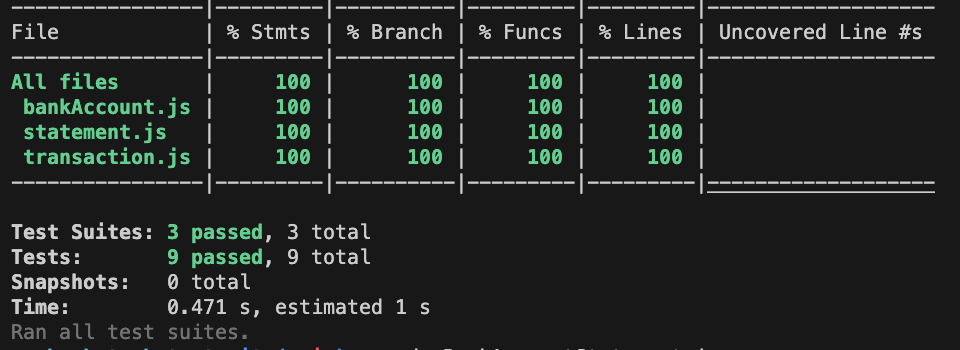
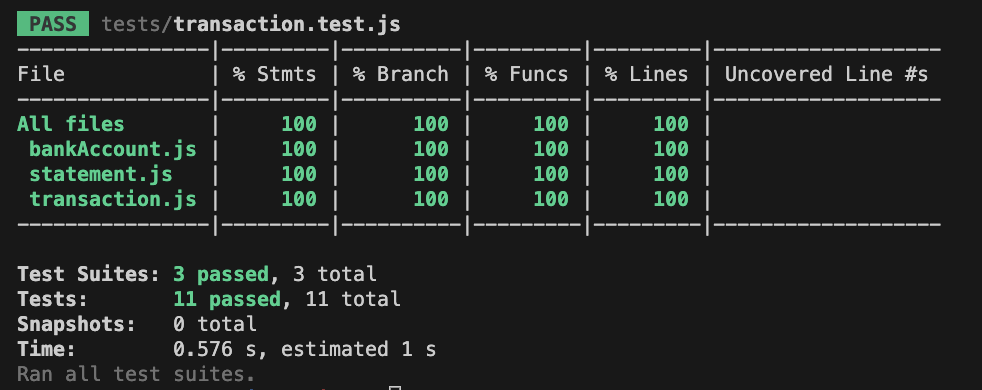
passed coverage tests, ESlint - corrected and updated code, added further instructions

Changed region(s): [[0.0, 0.0, 0.9688, 0.6], [0.0, 0.6286, 0.4688, 1.0], [0.375, 0.9714, 0.4062, 1.0]]

diff --git a/tests/bankAccount.test.js b/tests/bankAccount.test.js
@@ -3,10 +3,12 @@ const BankAccount = require('../controllers/bankAccount');
 describe('Bank Account', () => {
   let account;
   let transactionArray;
+  let spy;
 
   beforeEach(() => {
     account = new BankAccount();
     transactionArray = account.bankTransaction.transactions;
+    spy = jest.spyOn(console, 'log');
   });
 
   describe('deposit feature', () => {
@@ -17,6 +19,13 @@ describe('Bank Account', () => {
       expect(transactionArray[0].credit).toBe(1000);
       expect(transactionArray[0].debit).toBe(0);
       expect(transactionArray[0].balance).toBe(1000);
+    });
+
+    it('should not allow deposit with more than 2 decimal places', () => {
+      account.deposit(1000.123);
+      expect(account.balance).toBe(0);
+      expect(transactionArray.length).toBe(0);
+      expect(spy).toHaveBeenCalledWith('Error: Only 2 decimal places allowed.');
     });
 
     it('should increase the balance by 1000', () => {
@@ -55,11 +64,20 @@ describe('Bank Account', () => {
       });
 
       it('should return an error message if withdrawal amount exceeds balance', () => {
-        const spy = jest.spyOn(console, 'log');
         account.deposit(500);
         account.withdraw(1000);
         expect(account.balance).toBe(500);
-        expect(spy).toHaveBeenCalledWith('Insufficient funds.');
+        expect(spy).toHaveBeenCalledWith('Error: Insufficient funds.');
+      });
+
+      it('should not allow deposit with more than 2 decimal places', () => {
+        account.deposit(1100);
+        account.withdraw(1000.123);
+        expect(account.balance).toBe(1100);
+        expect(transactionArray.length).toBe(1);
+        expect(spy).toHaveBeenCalledWith(
+          'Error: Only 2 decimal places allowed.',
+        );
       });
     });
   });

diff --git a/controllers/bankAccount.js b/controllers/bankAccount.js
@@ -1,6 +1,11 @@
 const Statement = require('./statement');
 const Transaction = require('./transaction');
 
+const isValidAmount = (amount) => {
+  const formattedAmount = parseFloat(amount.toFixed(2));
+  return formattedAmount === amount;
+};
+
 class BankAccount {
   constructor() {
     this.balance = 0;
@@ -9,17 +14,28 @@ class BankAccount {
   }
 
   deposit(amount) {
+    if (!isValidAmount(amount)) {
+      console.log('Error: Only 2 decimal places allowed.');
+      return;
+    }
+
     this.balance += amount;
     this.bankTransaction.addTransaction(amount, 0, this.balance);
   }
 
   withdraw(amount) {
-    if (this.balance - amount < 0) {
-      console.log('Insufficient funds.');
-    } else {
-      this.balance -= amount;
-      this.bankTransaction.addTransaction(0, amount, this.balance);
+    if (!isValidAmount(amount)) {
+      console.log('Error: Only 2 decimal places allowed.');
+      return;
     }
+
+    if (this.balance - amount < 0) {
+      console.log('Error: Insufficient funds.');
+      return;
+    }
+
+    this.balance -= amount;
+    this.bankTransaction.addTransaction(0, amount, this.balance);
   }
 
   printStatement() {

diff --git a/controllers/statement.js b/controllers/statement.js
@@ -3,7 +3,7 @@ class Statement {
     this.bankStatement = bankStatement;
   }
 
-  formatAmount(amount) {
+  static formatAmount(amount) {
     return amount !== 0 ? amount.toFixed(2) : '';
   }
 
@@ -11,11 +11,15 @@ class Statement {
     console.log('date || credit || debit || balance');
     this.bankStatement.transactions.reverse().forEach((transaction) => {
       console.log(
-        `${transaction.date.toLocaleDateString('en-GB')} || ${this.formatAmount(
-          transaction.credit
-        )} || ${this.formatAmount(transaction.debit)}|| ${this.formatAmount(
-          transaction.balance
-        )}`
+        `${transaction.date.toLocaleDateString('en-GB')} ||${
+          Statement.formatAmount(transaction.credit)
+            ? ` ${Statement.formatAmount(transaction.credit)}`
+            : ''
+        } ||${
+          Statement.formatAmount(transaction.debit)
+            ? ` ${Statement.formatAmount(transaction.debit)}`
+            : ''
+        } || ${Statement.formatAmount(transaction.balance)}`,
       );
     });
   }

diff --git a/tests/statement.test.js b/tests/statement.test.js
@@ -23,10 +23,18 @@ describe('print statement', () => {
     account.withdraw(500);
     account.printStatement();
 
-    expect(consoleSpy).toHaveBeenCalledWith('date || credit || debit || balance');
-    expect(consoleSpy).toHaveBeenCalledWith('26/06/2023 ||  || 500.00 || 2500.00');
-    expect(consoleSpy).toHaveBeenCalledWith('26/06/2023 || 2000.00 ||  || 3000.00');
-    expect(consoleSpy).toHaveBeenCalledWith('26/06/2023 || 1000.00 ||  || 1000.00');
+    expect(consoleSpy).toHaveBeenCalledWith(
+      'date || credit || debit || balance',
+    );
+    expect(consoleSpy).toHaveBeenCalledWith(
+      '26/06/2023 || || 500.00 || 2500.00',
+    );
+    expect(consoleSpy).toHaveBeenCalledWith(
+      '26/06/2023 || 2000.00 || || 3000.00',
+    );
+    expect(consoleSpy).toHaveBeenCalledWith(
+      '26/06/2023 || 1000.00 || || 1000.00',
+    );
   });
 
   describe('mock the dependency of time', () => {

diff --git a/BankStatementWithErrors.js b/BankStatementWithErrors.js
@@ -1,0 +1,15 @@
+const BankAccount = require('./controllers/bankAccount');
+
+const account = new BankAccount();
+
+account.deposit(1000);
+account.deposit(2000);
+account.withdraw(500);
+
+account.deposit(1000.152);
+account.withdraw(1000.123);
+account.withdraw(5000);
+
+account.printStatement();
+
+console.log();

diff --git a/README.md b/README.md
@@ -57,10 +57,10 @@ date || credit || debit || balance
   * use .00 or 2 decimals after the main number;
   * format the date as per speicfications DD/MM/YYYY;
   * use 2 pipe characters || to seperate each column;
-  * if either the debit or credit amount is missing, this will be replaced by 2 pipe characters ||;
+  * if either the debit or credit amount is 0 or missing, the amount will not be displayed;
   * statement will display in reverse chronological order, starting with the latest transaction.
 
-* The program will take into account if any withdrawls will cause the balance to become negative and display an error of 'Insufficient funds'.
+* The program will take into account if any withdrawls will go above the balance amount or if the amount has more than 2 decimals and display an error message.
 
 ## 3. User Story
 
@@ -70,6 +70,8 @@ date || credit || debit || balance
 3. As a user, I would like to request the printing of my account statement that shows me the date, amount and balance.
 4. As a user I would like my statement to have a header. 
 5. As a user, I would like to see my latest transaction first when printing my statement.
+6. As a user, I would like to be notified if my withdrawal request goes above my balance.
+7. As a user, I would like to only be able to deposit an amount with up to 2 decimal places otherwise I will get an error. 
 ```
 
 ## 4. Diagram
@@ -125,11 +127,13 @@ For perspectives on the differences between SRP and SOC, you can view this artic
 * deposits (PASSED):
   * add 1000, expect balance to be 1000;
   * add 1000, add 1000 and expect balance to be 2000;
+  * should return an error message if the amount has more than 2 decimal places; add 1000.123 and check that there was no deposit made, no transaction has occured and the error message `Error: Only 2 decimal place allowed.` was received.
 
-* withdrawals (developing):
+* withdrawals (PASSED):
   * add 2000, draw 1000 and expect balance to be 1000;
   * add 2000, draw 1000, draw 500 and expect balance to be 500;
-  * should return an error message if withdrawal amount exceeds balance; add 500, draw 1000, exptect to receive "Insufficient funds.'. To achieve this test, a mock environment was created by using jest.spyOn to create a 'spy' on the console.log method. By using .toHaveBeenCalledWith() the test checks the statement in the console log was called with the correct error message. For more information, check the [Jest documentation here](https://jestjs.io/docs/jest-object#jestspyonobject-methodname-accesstype).
+  * should return an error message if withdrawal amount exceeds balance; add 500, draw 1000, exptect to receive`Error: Insufficient funds.`. To achieve this test, a mock environment was created by using jest.spyOn to create a 'spy' on the console.log method. By using .toHaveBeenCalledWith() the test checks the statement in the console log was called with the correct error message. For more information, check the [Jest documentation here](https://jestjs.io/docs/jest-object#jestspyonobject-methodname-accesstype).
+  * should return an error message if the amount has more than 2 decimal places; add 1100, draw 1000.123 and check that there is still an amount of 1100 remaining, only one transaction has occured and the error message `Error: Only 2 decimal place allowed.` was received.
 
 * updated tests so that the behaviour (`account.deposit()`, `account.withdraw()`) is furter tested, by focusing on testing the methods and their outcomes (via the state related assertions such as `expect(transaction.length).toBe();`):
   * deposit: expect balance to be 1000; transaction length 1, position in array 0, credit value 1000, debit value 0 and balance value 1000;
@@ -146,29 +150,32 @@ For perspectives on the differences between SRP and SOC, you can view this artic
   * used the previous test (for bankAccount.js) as a template and built up on it;
   * declared 3 variables: `account` - new instance of `BankAccount class`, `newTransaction` - new instantace of `Transaction class` and lastly `transactionsArray` which creates a new variable that can hold a referece to the actual transactions array found in the controller.  
 
-* add new transaction (PASSED):
-  * added new transaction
-
-  * in a deposit transaction (PASSED):
-  * checking the correct credit amount; (PASSED)
-  * checking the correct debit amount; (PASSED)
-  * checking the correct balance; (PASSED)
+* add new transaction (ALL PASSED):
+  * added new transaction;
+  * in a deposit transaction;
+  * checking the correct credit amount; 
+  * checking the correct debit amount; 
+  * checking the correct balance; 
   * all tests PASSED by calling the addTransaction method directly into each test and assigning values for credit, debit and balance (`newTransaction.addTransaction(1000, 0, 1000)`).
 
-  * in a deposit transaction (PASSED):
+  * in a deposit transaction (ALL PASSED):
   * checking the correct credit, debit and balance amount; (failed with previous code where addTransaction method was called and values assigned to credit, debit and balance)
   * had to update code to now integrate the addTransaction method to the BankAccount class as per initial design; created a new instance variable `this.bankTransaction` that itself created a new instance of the `Transaction class` via `new Transaction` which will then allow for the definition and use of the `addTransaction` method found withing the `Transaction class`.
   * the assigned values for credit, debit and balance were removed from the test (`newTransaction.addTransaction(1000, 0, 1000)`) and were replaced with a call method within the bankAccount.js controller (`this.bankTransaction.addTransaction(amount, 0, this.balance);`, an example for the deposit method, where one should expect to be in a credit situation where credit has a amount, debit is 0 and the balance is also an ammount defined the number of deposits added)
   * `Transaction class` is no longer being called into the test as it is now being assigned via the `BankAccount class`;
-  * checking the correct credit, debit and balance amount in a withdrawal situation;(PASSED)
+  * checking the correct credit, debit and balance amount in a withdrawal situation.
 
 3. **Statement Controller Tests**: 
 
-* print statement diplaying credit string and its value (PASSED) :
+* print statement diplaying credit string and its value (ALL PASSED) :
   * used jest.spyOn again to track calls to the `console.log` during the tests
-  * the test looks at the behaviour of the printStatement method wehre `account.deposit(1000)` deposits 1000 so the account is in credit which the assertions should verify that when the console.log is called, it will return the argument "credit" and the its associated value of 1000.
+  * the test looks at the behaviour of the printStatement method wehre `account.deposit(1000)` deposits 1000 so the account is in credit which the assertions should verify that when the console.log is called, it will return the argument "credit" and the its associated value of 1000;
   * mocked the dependency of time following guidance from [here](https://www.benoitpaul.com/blog/javascript/jest-mock-date/). Worth noting that in JavaScript the 'Date' object starts counting the months from 0, so for example, June would be index 5.
 
+4. **Formatting Tests**
+
+* `.toFixed(2)` was used to ensure only 2 decimals are printed out;
+* to format the spaces in between the pipe columns `?` operator was used to check that either the debit or credit amount exits. `: ''` if the formatted debit amount exists, it is added a leading space, otherwise an empty string is added to maintain the correct spacing.
 
 
 ## 6. Tickets
@@ -185,14 +192,15 @@ For perspectives on the differences between SRP and SOC, you can view this artic
 10. Update diagram based on research and changes made in the code. ==DONE==
 11. Update tests and then code based on reseach the research mentioned at point 7. ==DONE==
 12. Further test the behaviours of the deposit and withdrawal methods found in the bankAccount.js controller now that the Transaction class has been called into the BankAccount class via the usage of the addTransaction method. ==DONE==
-13. Upload coverage tests - to be updated as tests progress. ==ONGOING==
-14. Do tests in node/terminal. ==ONGOING==
+13. Upload coverage tests - to be updated as tests progress. ==DONE==
+14. Do tests in node/terminal. ==DONE==
 15. Work on developing the tests and then code for creating a statement. ==DONE==
 16. Update diagram to display changes in code. ==DONE==
-17. Continue adding tests and code for statement: debit, balance and time.==ONGOING==
-18. Add decimals to values. ==TO DO==
-19. Check formatting, specifications and any refactoring opportunities. ==TO DO==
+17. Continue adding tests and code for statement: debit, balance and time.==DONE==
+18. Add decimals to values. ==DONE==
+19. Check formatting, specifications and any refactoring opportunities. ==DONE==
 20. Check README is complete and submit project. ==TO DO==
+21. Added error for depositing or withrdrawing an amount exceeding 2 decimals. ==DONE==
 
 ## 7. Test Covarage
 
@@ -210,6 +218,13 @@ alt="Transaction Controller Test Coverage">
 
 <img src="screenshots/test_coverage.png"
 alt="All Tests Coverage">
+
+4. ESlint - all errors fixed and cleared: 
+
+Note: in two situations `this` was used to call upon a method ([see here for more details](https://www.w3schools.com/js/js_function_call.asp)) and ESlint gave an error. One was fixed by turning the method into const declaration and the other by using the keyword `static`and turned the (regurlar) method into a static method ([read more here on static methods](https://javascript.info/static-properties-methods)).
+
+<img src="screenshots/this_eslint_error.png"
+alt="All ESLint Errors Cleared">
 
 ## 8. Screenshots: program tested in terminal
 
@@ -252,6 +267,16 @@ alt="Date Terminal Test">
 
 <img src="screenshots/bank_statement.png"
 alt="Bank Statement">
+
+9. Printed statement with the correct space formatting and according to specifications: 
+
+<img src="screenshots/correct_formatting.png"
+alt="Bank Statement according to Specifications">
+
+10. Finished product:
+
+<img src="screenshots/full_node_test.png"
+alt="Finished product tested in REPL/NODE">
 
 ## 9. Instructions
 
@@ -313,14 +338,53 @@ $ npm add jest
 
 ```
 # Please check that all tests are running in the test directory before running the program in REPL: 
+$ npx jest
+
+# alternatively try:
 $ jest
 
+
 # To see test coverage then run: 
+$ npx jest --coverage
+
+# alternatively try:
 $ test
 ```
 
 <ins> Step 5: Running the program/app in REPL:
 
+__OPTIONN 1__ 
+
+```
+# In your terminal run the file BankStatement.js:
+$ node BankAccountStatement.js
+
+# and you should get the following output:
+
+date || credit || debit || balance
+26/05/2023 || || 500.00 || 2500.00
+26/05/2023 || 2000.00 || || 3000.00
+26/05/2023 || 1000.00 || || 1000.00
+```
+
+__OPTION 2__
+
+```
+# In your terminal run the file BankStatementWithErrors.js:
+$ node BankStatementWithErrors.js
+
+# and you should get the following output:
+
+Error: Only 2 decimal places allowed.
+Error: Only 2 decimal places allowed.
+Error: Insufficient funds.
+date || credit || debit || balance
+27/05/2023 || || 500.00 || 2500.00
+27/05/2023 || 2000.00 || || 3000.00
+27/05/2023 || 1000.00 || || 1000.00
+```
+
+__OPTION 3__
 ```
 # Run node to open the node REPL:
 $ node
@@ -342,7 +406,18 @@ $ account.withdraw(500);
 $ account.balance;
 
 # Print statement: 
-$
+$ account.printStatement();
+
+# To see account data:
+$ account
+
+# To get a deposit error:
+$ account.deposit(1000.123)
+
+# To get a withdrawal error:
+$ account.withdraw(1000.123)
+
+# To get an 'Insufficient funds error' ensure that the balance is lower than the withdrawal amount, i.e. balance can be 1000 and withdrawal amaount 2000.
 ```
 
 ## 10. Self-assement
@@ -362,7 +437,7 @@ Yes
 Yes, 100%
 
 4. Do the unit tests mock the dependencies of the object they are testing?
-Yes/No/I don't know
+Yes
 ```
 
 Additional Constraints:
